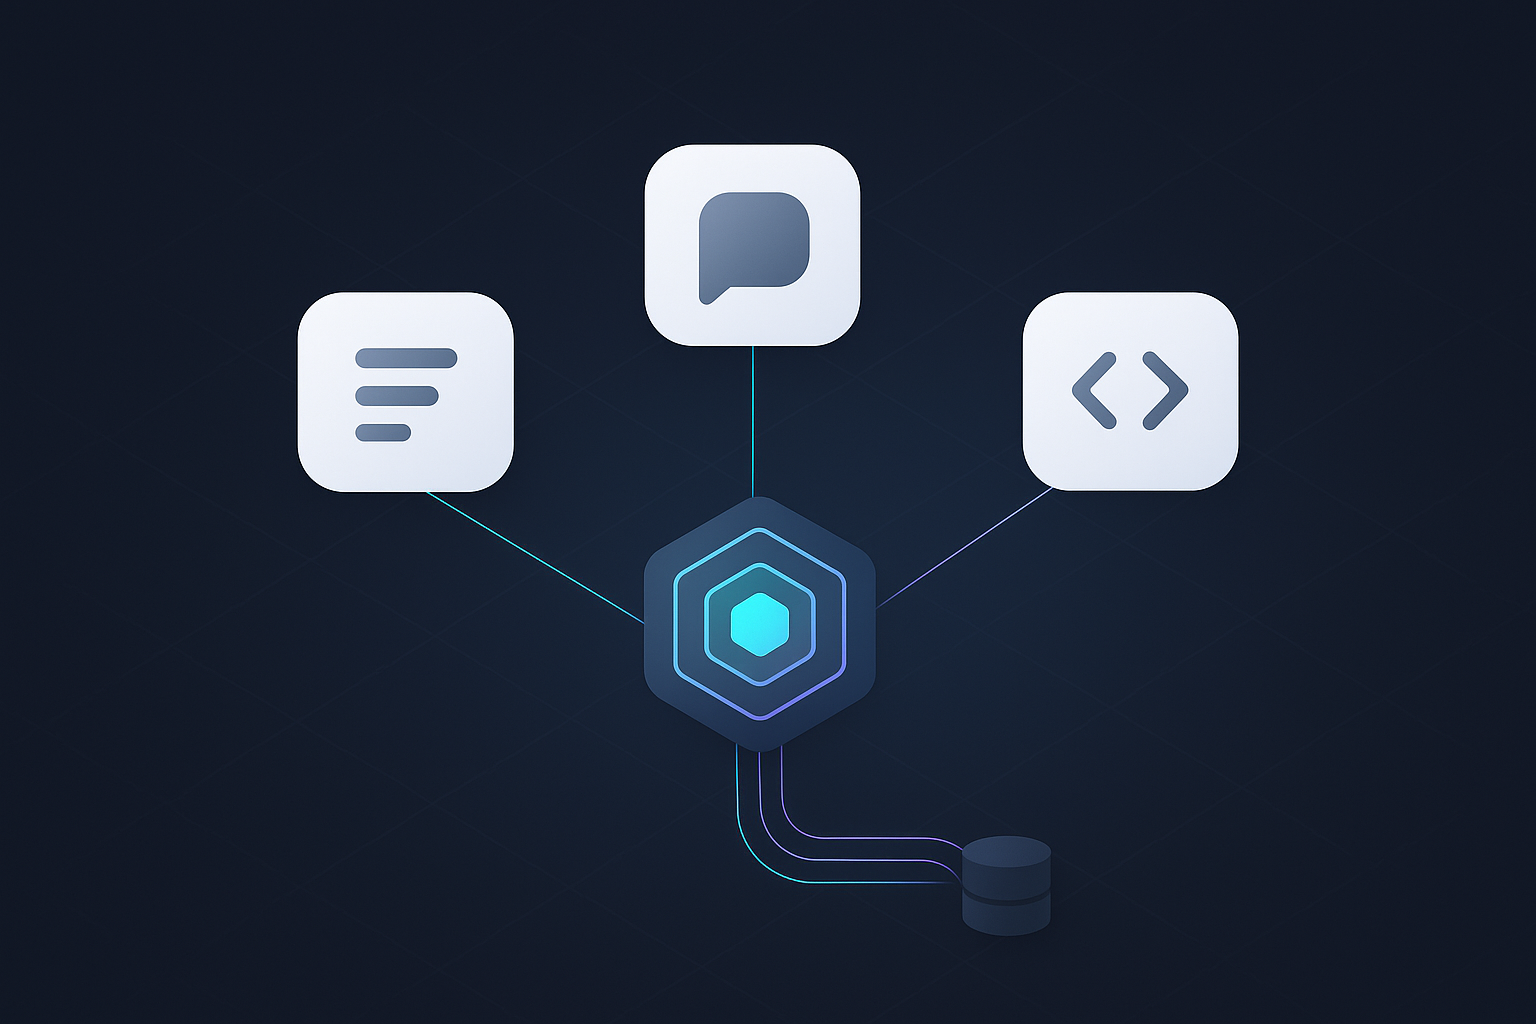
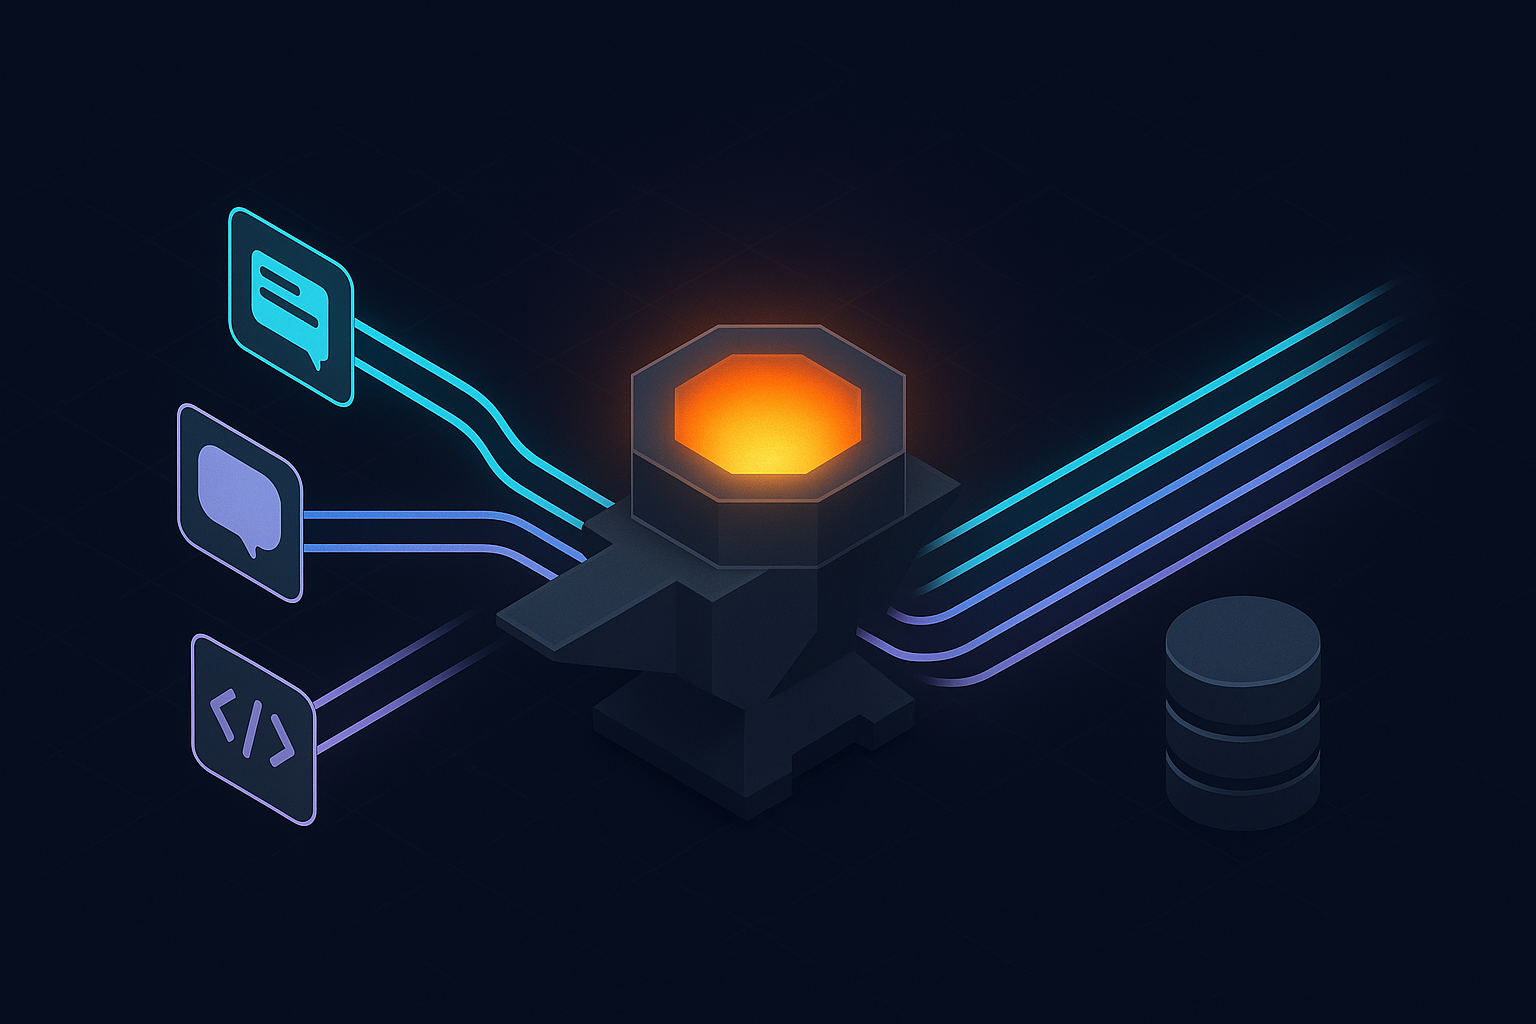
docs: regenerate hero image with forge theme + bump test count
- New hero.png matches refined 'feedforge' brief: hexagonal forge
  with amber ember, 3 input source cards, cylindrical DB silhouette
- Bump README test count to 22/22 (core 8, daily-dev 9, cli 5)
- Document crawled_at first-seen preservation

diff --git a/README.md b/README.md
@@ -88,7 +88,7 @@ crawler/
 - `article_tags` — article_id, tag.
 - Indexes: source, published_at, tag.
 
-**Dedupe**: `(source, external_id)` UNIQUE → re-running the same command yields 0 inserted, N updated.
+**Dedupe**: `(source, external_id)` UNIQUE → re-running the same command yields 0 inserted, N updated. `crawled_at` is preserved on update (first-seen semantics), so list ordering stays stable across re-crawls.
 
 ---
 
@@ -203,7 +203,7 @@ pnpm --filter @crawler/core test
 pnpm --filter @crawler/daily-dev test
 ```
 
-Current test status: **11/11 unit tests pass** (core: 6, daily-dev: 5).
+Current test status: **22/22 unit tests pass** (core: 8, daily-dev: 9, cli: 5).
 
 ---
 
